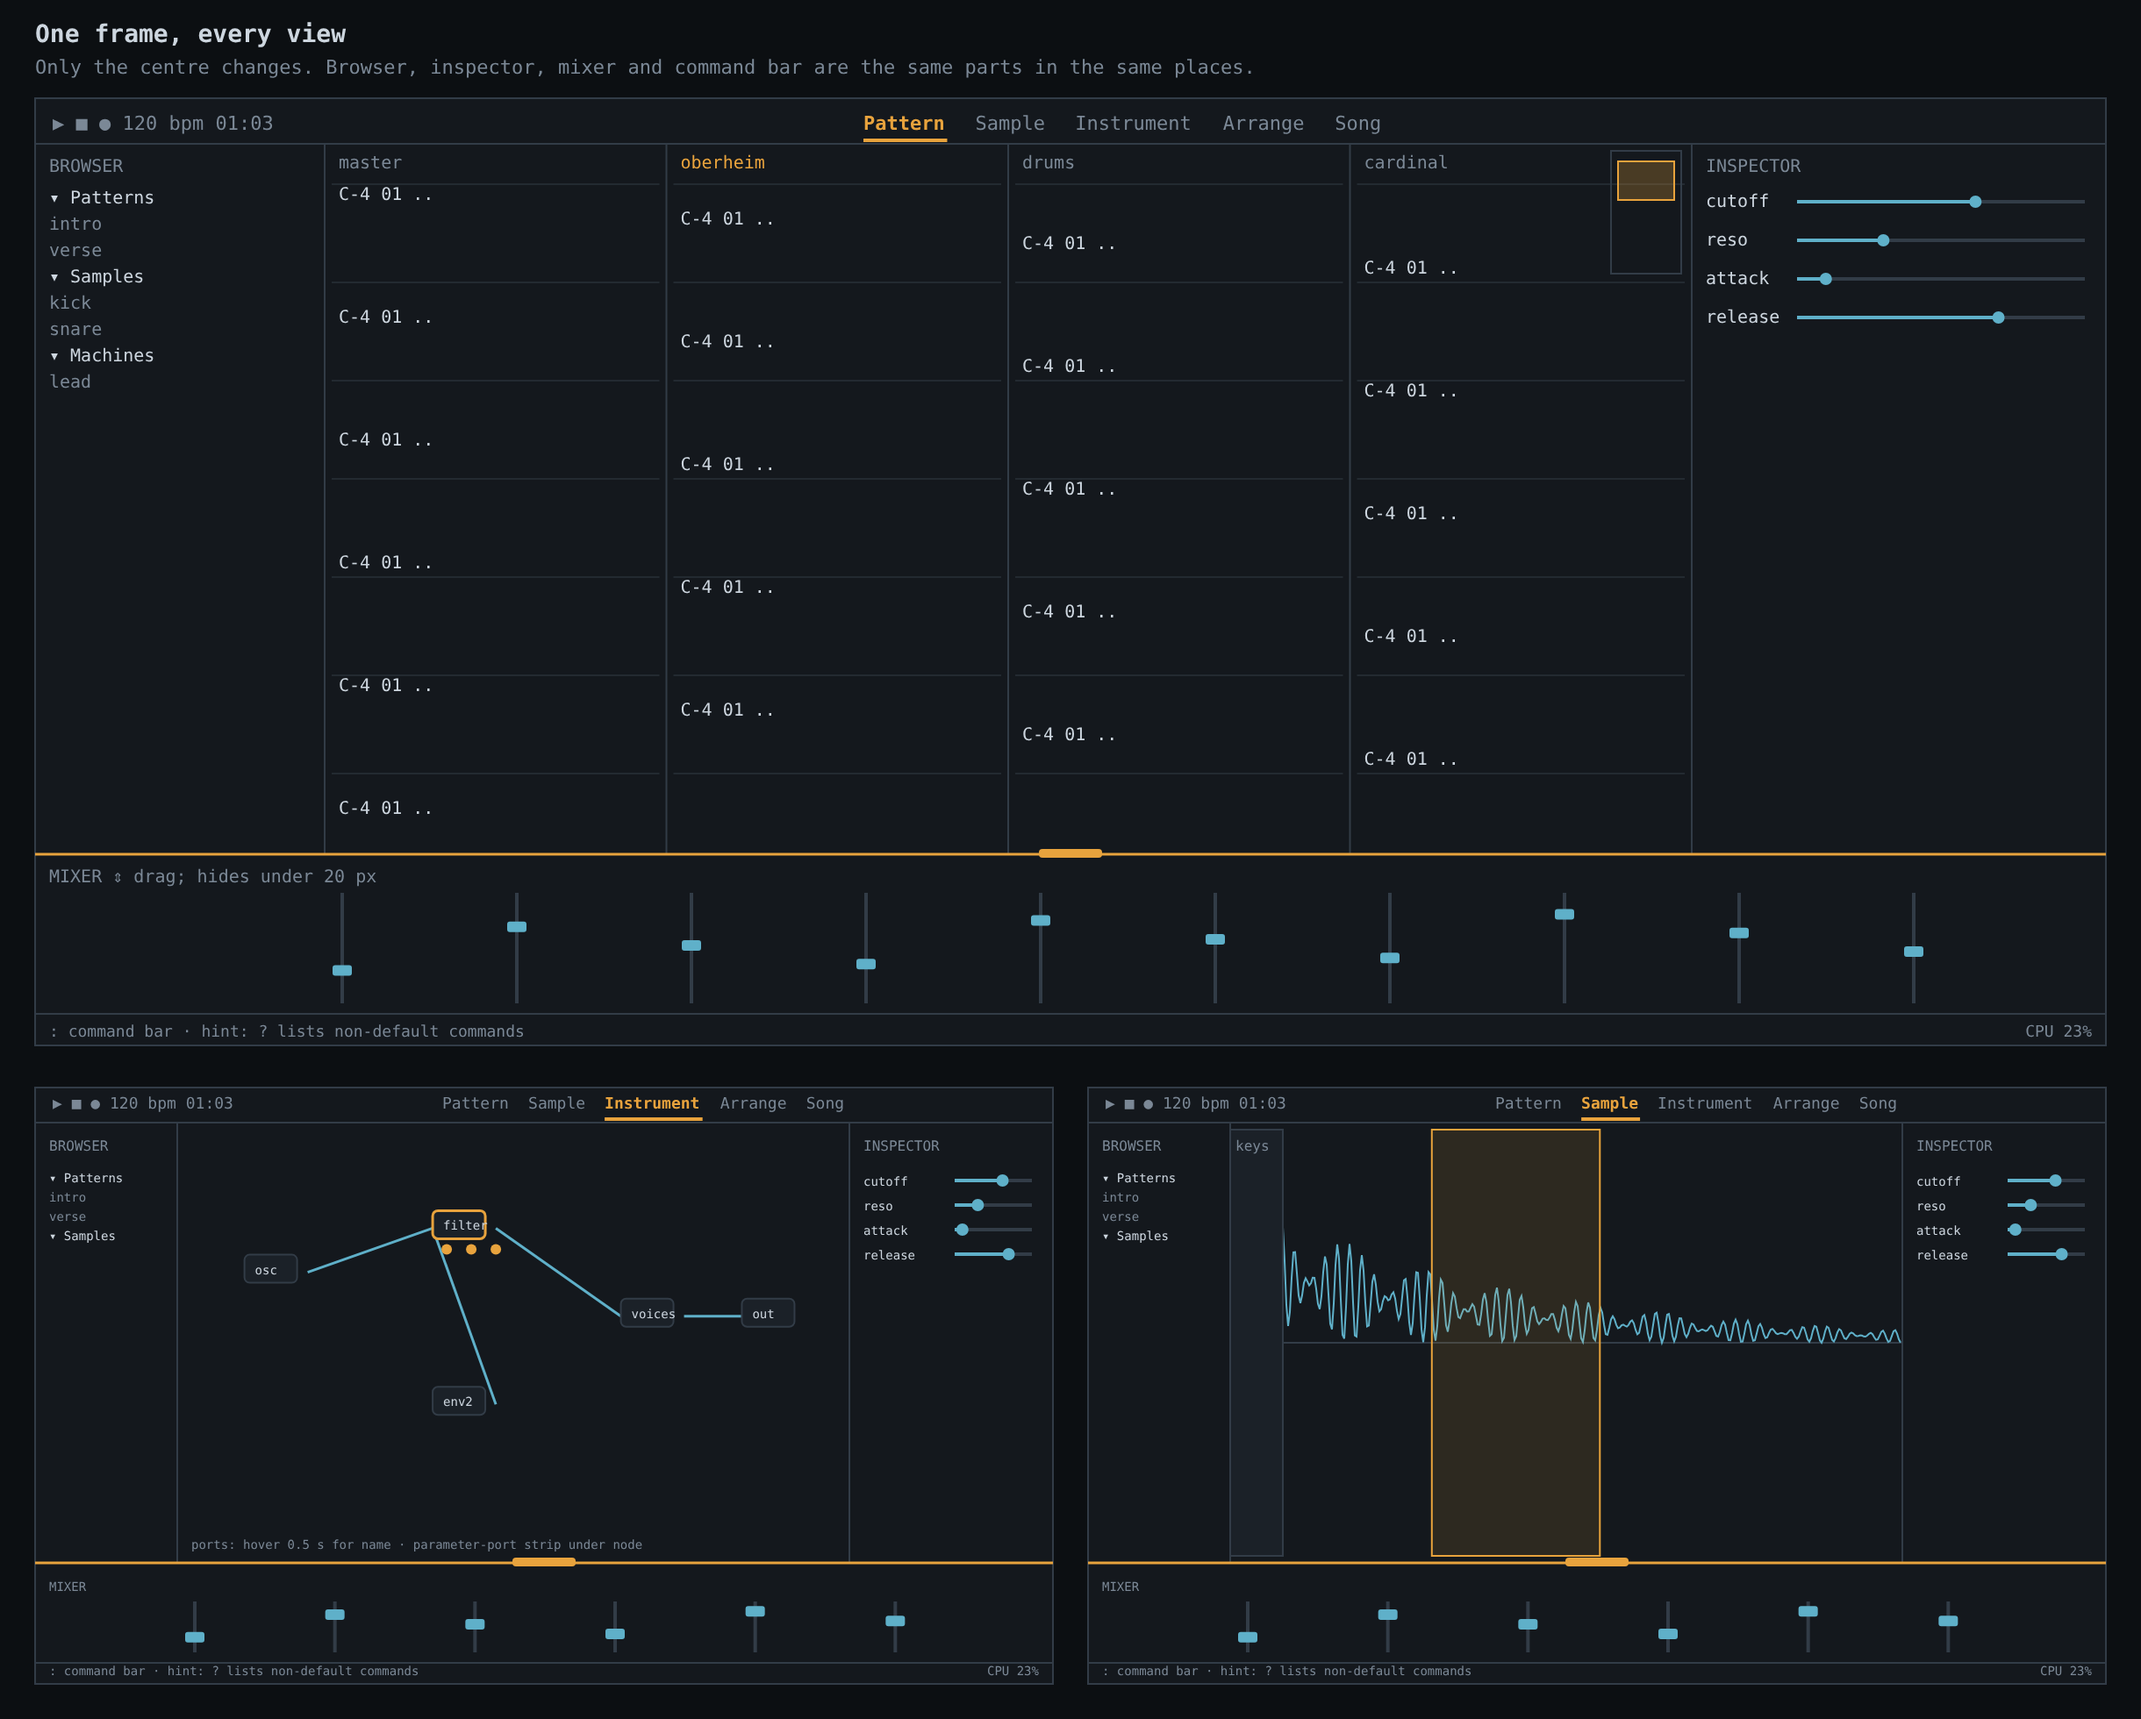
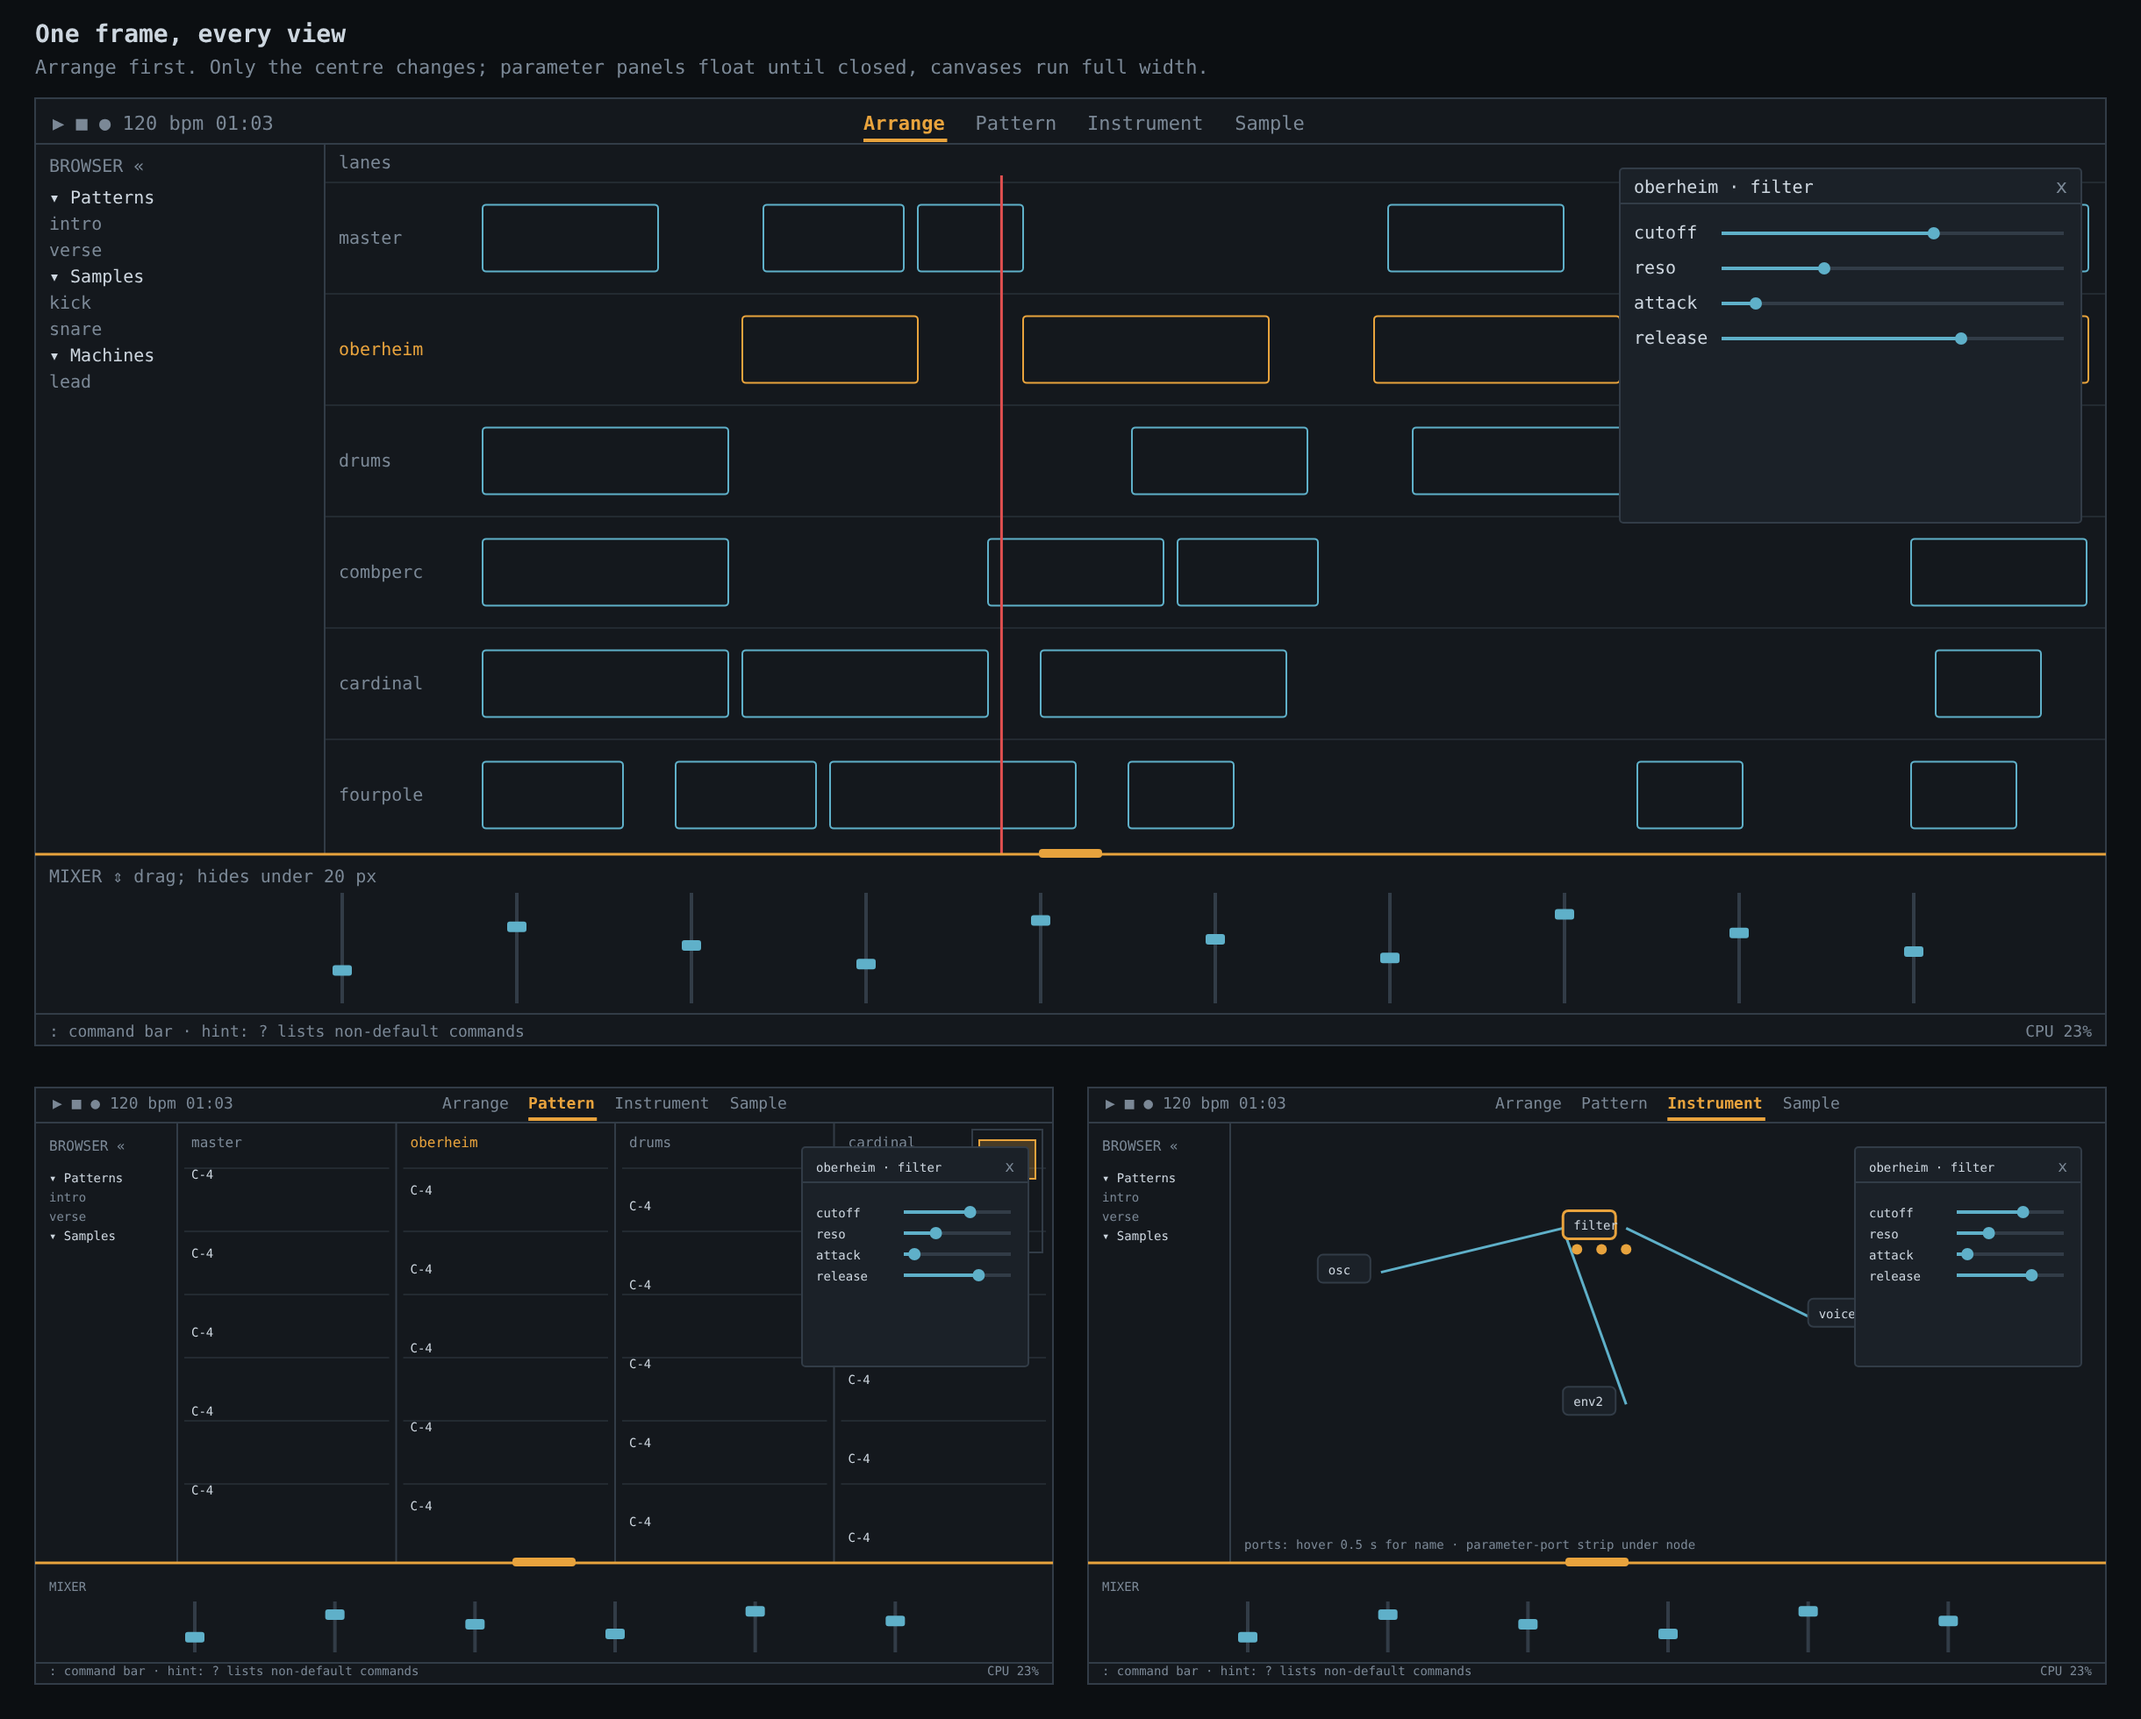
ui-frame: floating parameter panels, Arrange first, collapsible browser (docs only)
Claude-Session: https://claude.ai/code/session_0193XYeY7sLSRN1Ya5sub4qt

diff --git a/docs/ui-frame.md b/docs/ui-frame.md
@@ -26,10 +26,13 @@ the kit adds spacing, line width and type size tokens next to them.
 
 See `ui-frame-layout.png`. One frame for every view; only the centre changes.
 
-- top bar: transport, view tabs
+- top bar: transport, view tabs in this order: Arrange, Pattern, Instrument, Sample.
+  Arrange is the first-class view and the one the app opens on.
 - left: browser (patterns, samples, machines), collapsible
-- centre: the view (pattern grid, graph, sample, arrangement)
-- right: inspector (sliders for what is selected), collapsible; the popout is this panel torn off
+- centre: the view, full width
+- parameter views float over the centre until closed (the Buzz way): draggable,
+  position remembered, several can be open at once, and any of them can be popped
+  out into its own window. No docked inspector.
 - bottom: mixer with a drag handle, hidden under 20 px, mouse-only, never takes keyboard focus
 - last line: command bar and status
 
@@ -40,7 +43,8 @@ See `ui-frame-layout.png`. One frame for every view; only the centre changes.
 - `popups` one stack for menus, dialogs, tooltips (0.5 s hover); one Escape rule
 - `splitter` drag to resize, collapse threshold, remembered size
 - `tabs`, `tree`
-- `slider`, `knob` one implementation for inspector, node faces, mixer
+- `slider`, `knob` one implementation for floating parameter panels, node faces, mixer
+- `floating` the draggable panel: hairline edge, close button, remembered position
 
 ## Steps (each leaves the app working and the tests green)
 
@@ -48,12 +52,16 @@ See `ui-frame-layout.png`. One frame for every view; only the centre changes.
 2. `focus`: wrap the existing listeners behind it, then remove them view by view.
 3. `popups`: move the ten popups over, one at a time.
 4. `splitter` and the frame shell: mixer docked first (Sample screen, the smallest).
-5. `slider` and `knob`; the inspector.
+5. `slider`, `knob` and `floating`; the parameter panels.
 6. Move the views over: Sample, Instrument, Pattern, Arrange.
 7. Delete what the kit replaced.
 
-## Open questions
+## Decided
 
-- browser and inspector collapsible so the tracker grid can go wide?
-- Sample and Instrument keep full-width canvases, frame only adds mixer and inspector?
-- Arrange: a tab in the frame, or in the mixer area?
+- browser collapsible
+- parameter views float until closed; canvases run full width
+- Arrange first, then Pattern, Instrument, Sample
+
+## Open
+
+- F-keys: keep F1 Pattern, F2 Sample, F3 Instrument, F4 Arrange as they are, or renumber to match the new tab order?
